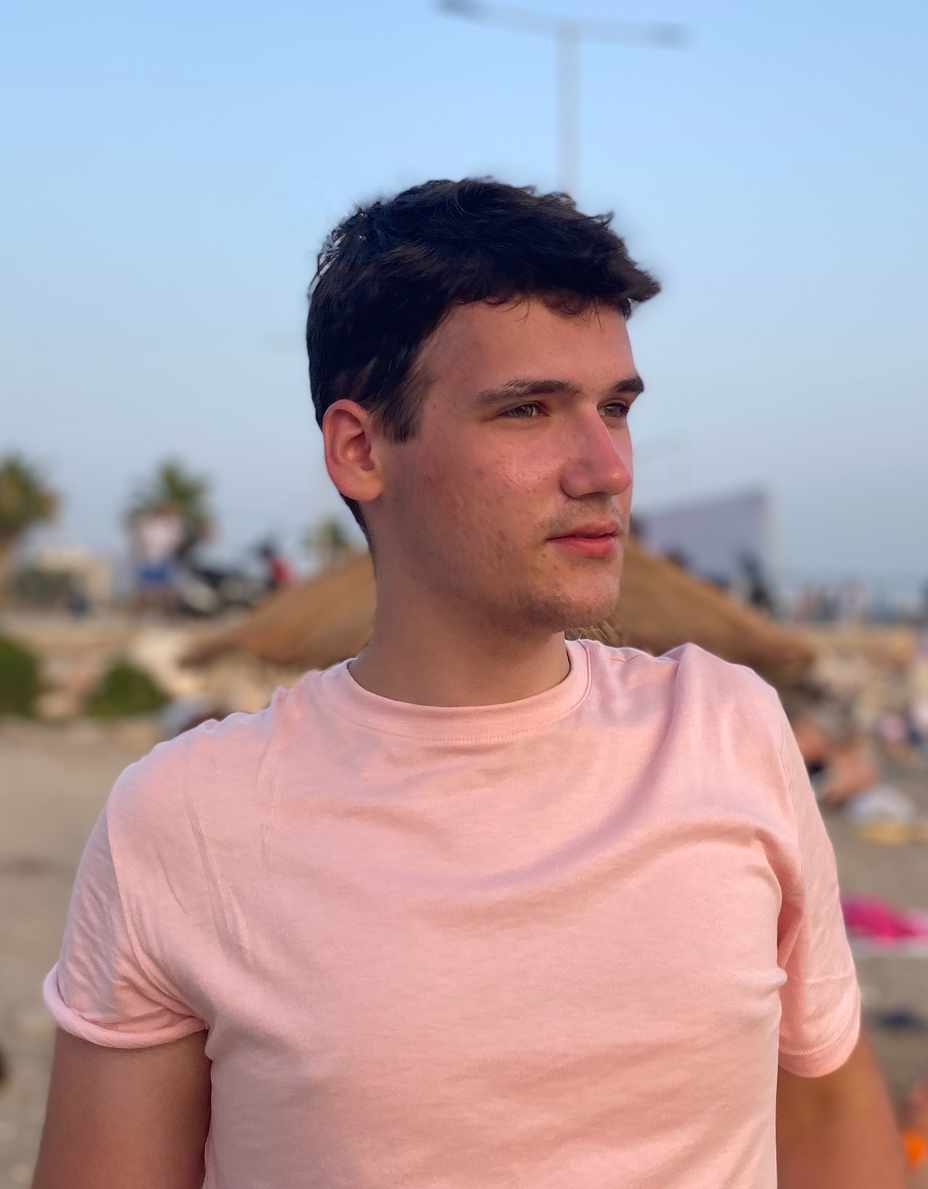
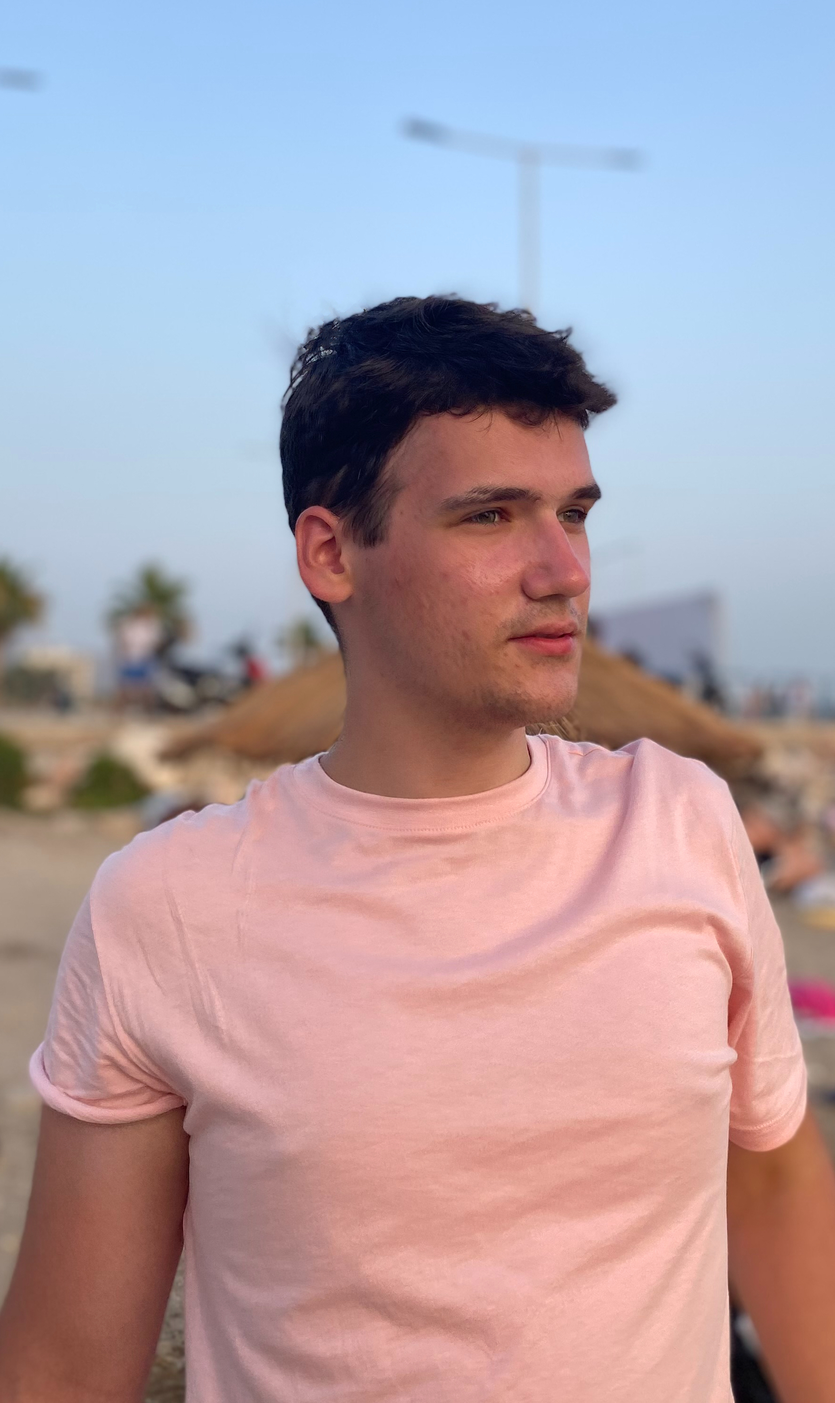
Added description to About me and change photo

diff --git a/src/app/components/AboutSection.jsx b/src/app/components/AboutSection.jsx
@@ -60,7 +60,7 @@ const AboutSection = () => {
                 <div className="md:order-2 mt-4 md:mt-0 text-left flex flex-col h-full">
                     <h2 className="text-4xl font-bold text-white mb-4">About me</h2>
                     <p className="text-white text-base md:text-lg">
-                        Hi, my name is Artur Gęsiarz, 🙋
+                        Hi, my name is Artur Gęsiarz 🙋
                         <br/>
                         <br/>
                         I'm a second year student of computer science at AGH University of Krakow at WI💻 🤓
@@ -108,7 +108,7 @@ const AboutSection = () => {
                         src="/images/my_photo_about_me.jpg"
                         alt="about me photo"
                         width={500}
-                        height={500}
+                        height={800}
                         className="rounded-lg"/>
                 </div>
             </div>

diff --git a/src/app/components/ProjectNavbar.jsx b/src/app/components/ProjectNavbar.jsx
@@ -13,7 +13,7 @@ const ProjectNavbar = ({ name }) => {
     const isMediumScreen = useMediaQuery({ query: '(min-width: 641px)' });
     const handleClick = () => {
         if (isMediumScreen) {
-            scroll.scrollTo(1235);
+            scroll.scrollTo(1450);
         } else {
             scroll.scrollTo(1650);
         }
